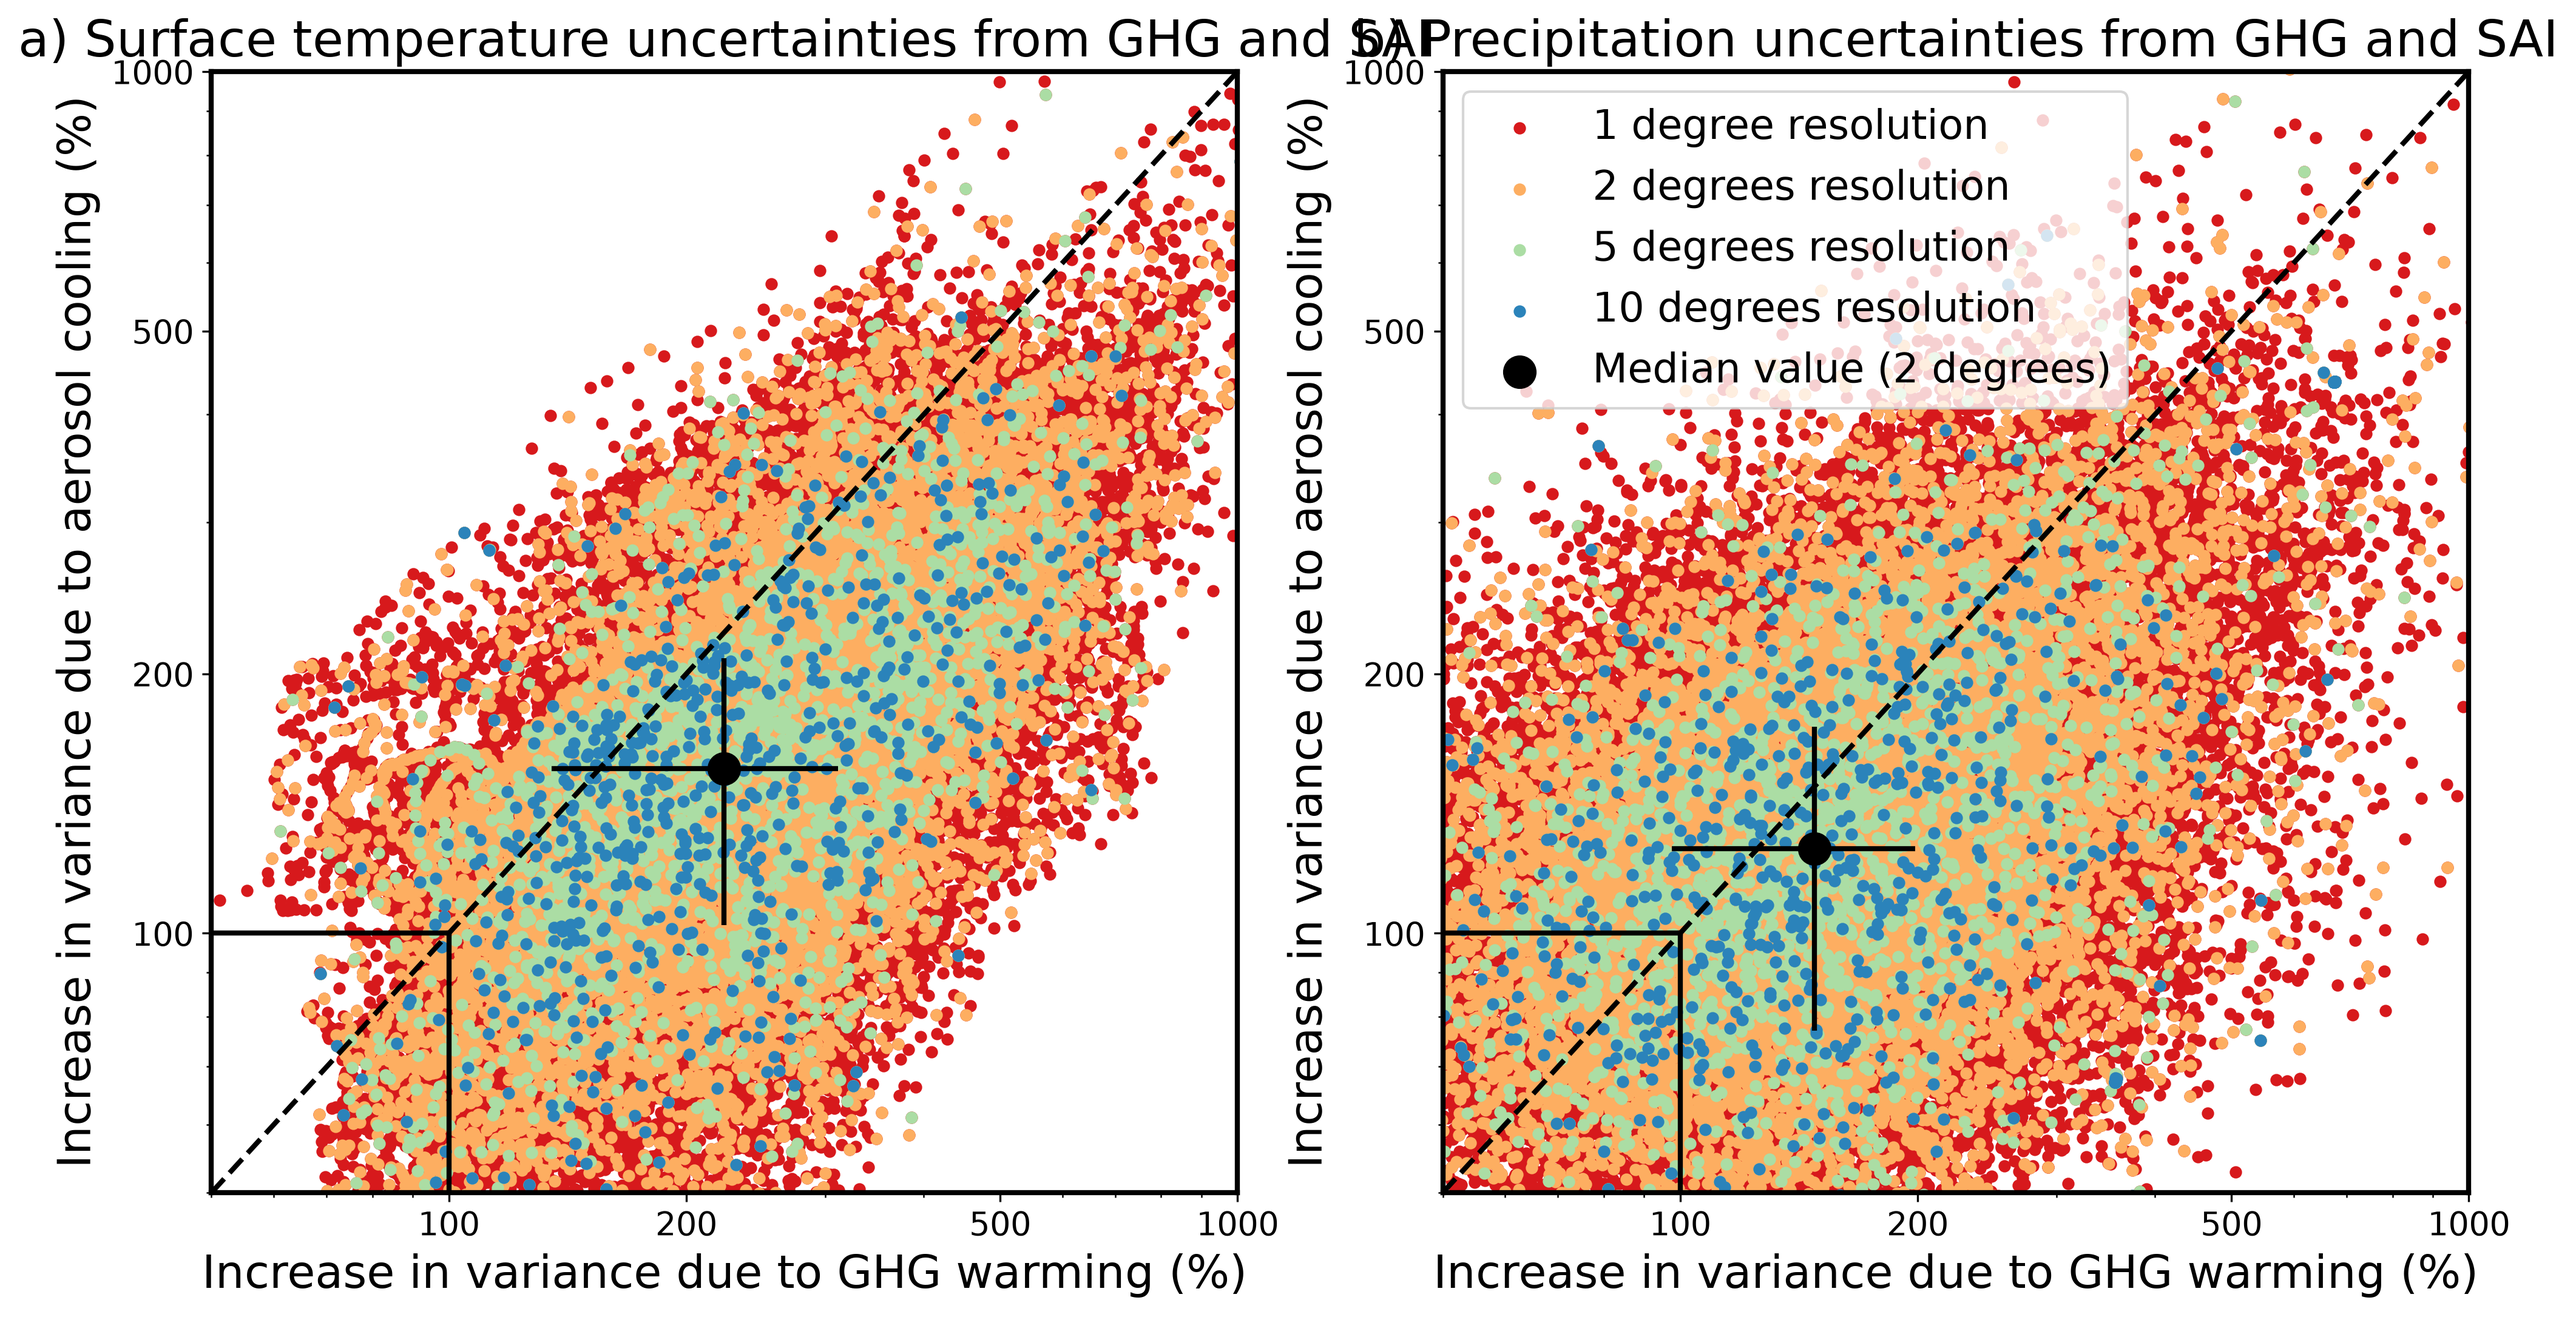
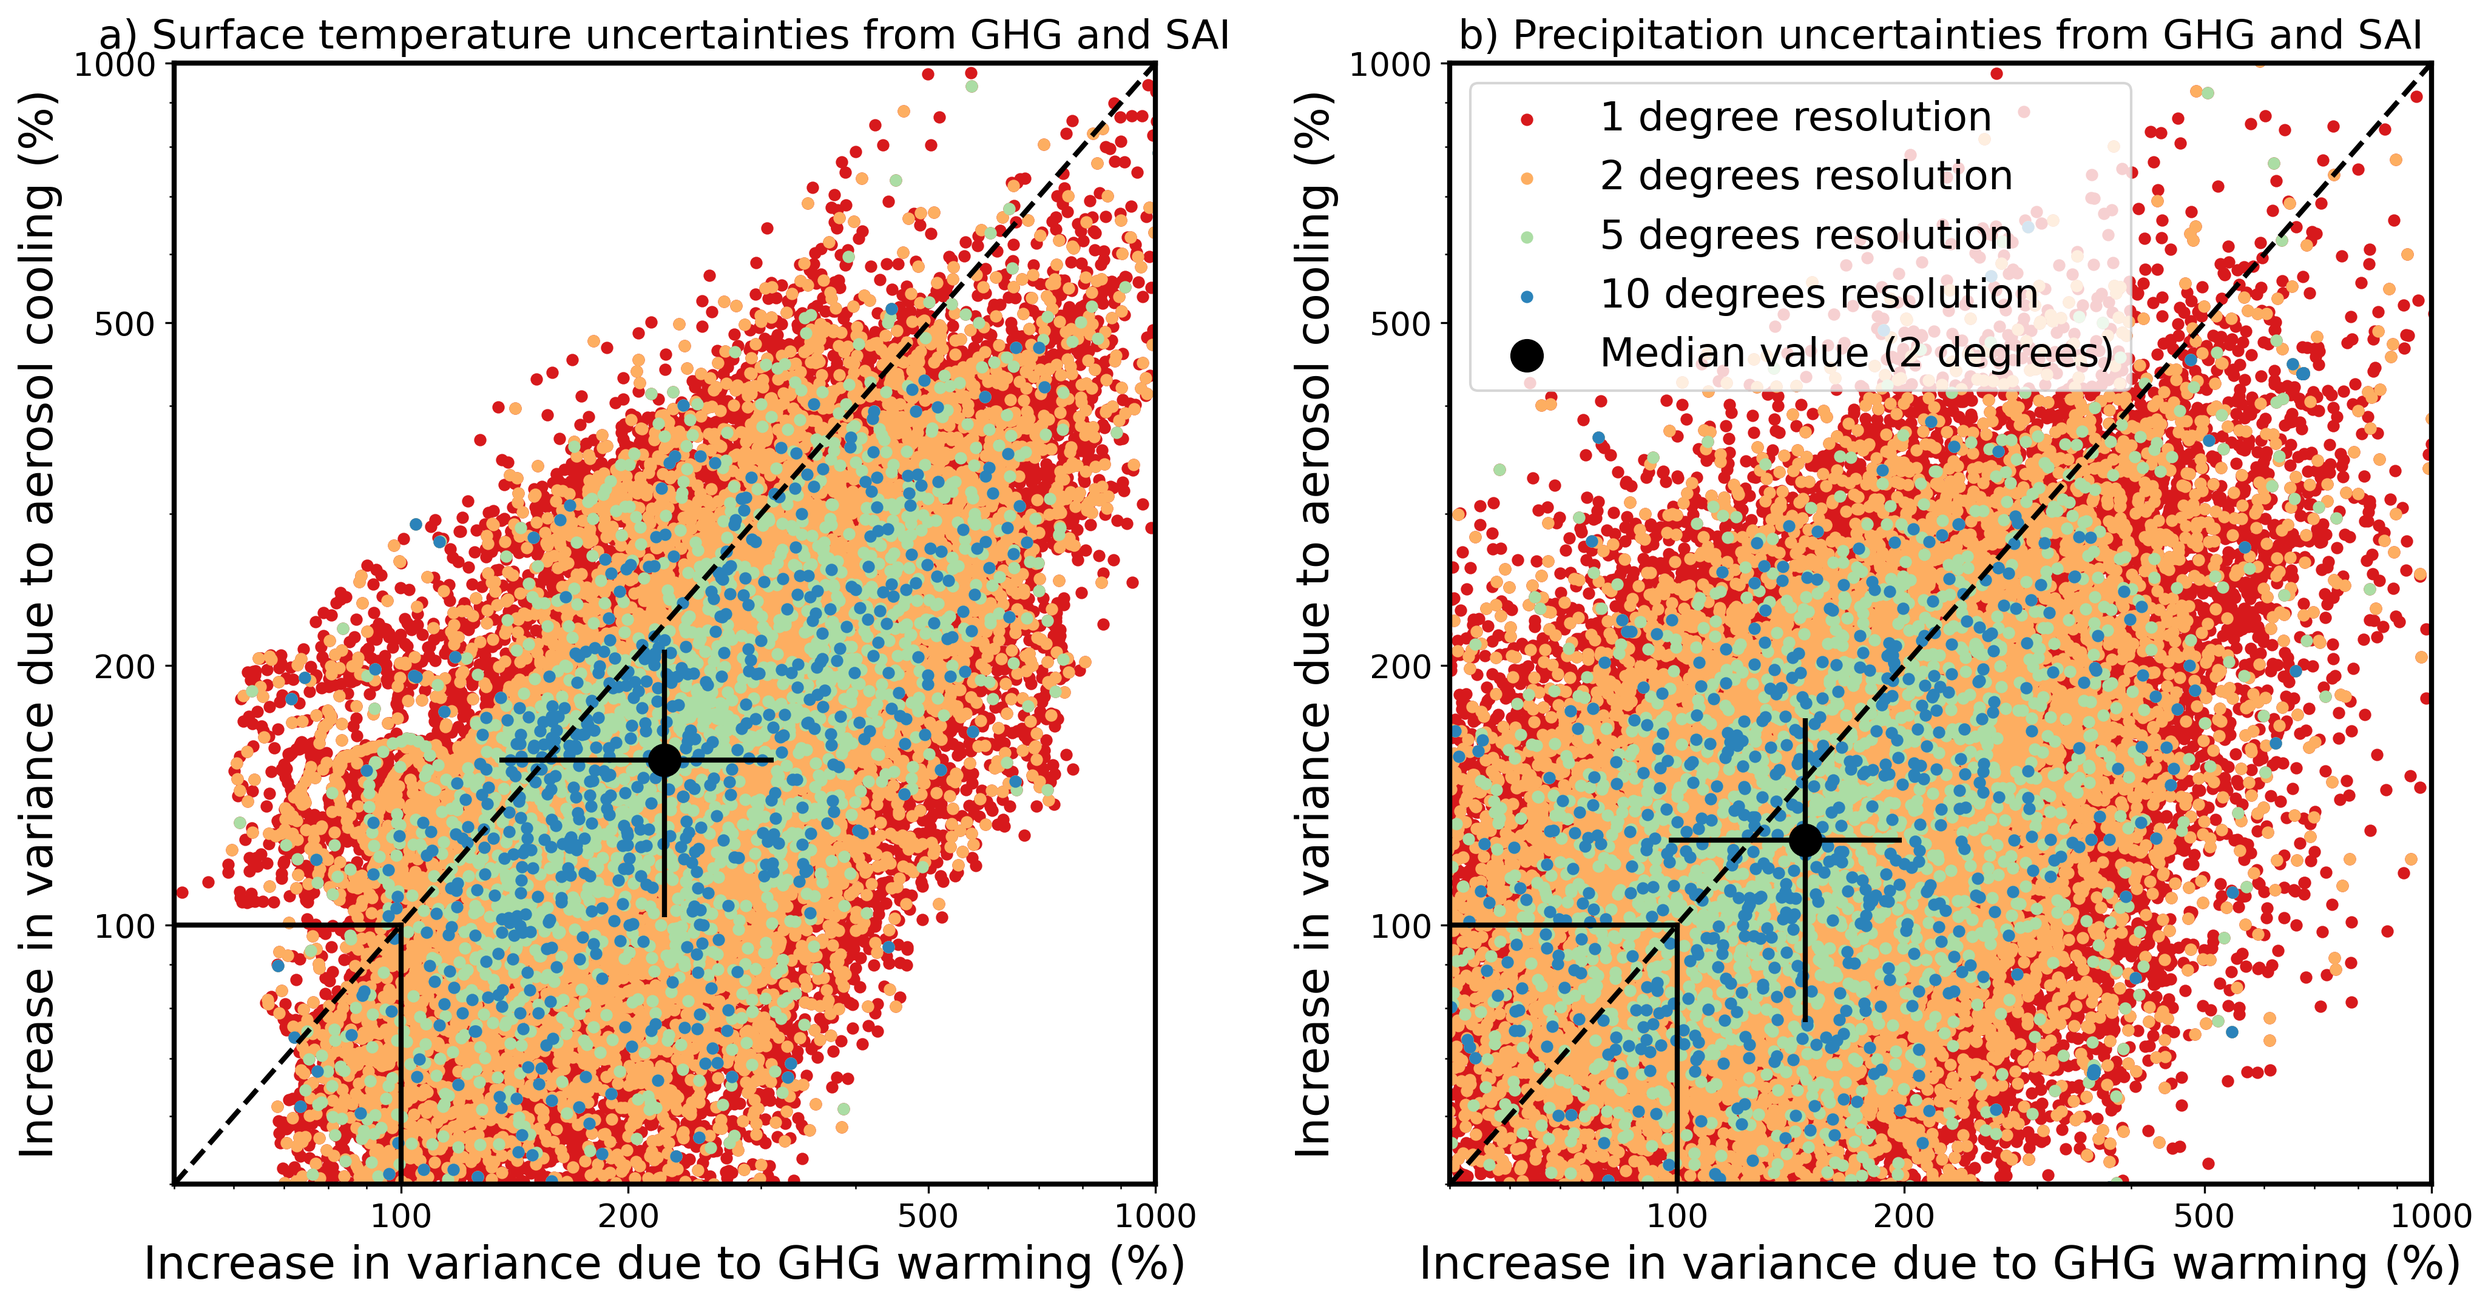
Fix overlapping text in spatial-uncertainty and regions-map figures
- plot_all_spatial_aggregation_2: smaller panel titles (20 -> 16pt) and
  wider gap between panels so the a)/b) titles no longer collide;
  regenerate GeoMIP_spatial_uncertainties_2.png.
- plot_HS_regions_map_2: stack the partition legend directly below the
  time-series legend (measured at draw time) in a taller legend area;
  re-space the global block so "Global partition" clears the panel above,
  and make that title bold. The TREFHT/PRECT PNGs are not regenerated
  (needs the CESM2 MA-GAUSS raw data).

diff --git a/python/src/plot_HS_regions_map_2.py b/python/src/plot_HS_regions_map_2.py
@@ -244,24 +244,29 @@ def dashboard(res, regions, var_label, normalize, default_ylim, glob_ylim, outna
 
     # global block (middle-left)
     yg, ybg = res["global"]
-    axgl = fig.add_axes([0.035, 0.520, BW, HL]); axgp = fig.add_axes([0.035, 0.375, BW, HP])
+    # wider gap than the region blocks: the partition panel has its own title
+    axgl = fig.add_axes([0.035, 0.519, BW, HL]); axgp = fig.add_axes([0.035, 0.360, BW, HP])
     line_panel(axgl, yg, ybg, normalize, glob_ylim)
     axgl.set_title("Global mean", fontsize=18, fontweight="bold")
     part_panel(axgp, yg)
-    axgp.set_title("Global partition", fontsize=16)
+    axgp.set_title("Global partition", fontsize=16, fontweight="bold")
 
-    # combined legend (middle-right)
-    axleg = fig.add_axes([0.775, 0.39, 0.21, 0.24]); axleg.axis("off")
+    # combined legend (middle-right): spans the free gap between the top and
+    # bottom region rows; the partition legend is stacked directly below the
+    # time-series legend so the two can never overlap
+    axleg = fig.add_axes([0.775, 0.335, 0.21, 0.315]); axleg.axis("off")
     hs = [axleg.plot([], [], color=fc[ix], lw=3)[0] for ix in range(7)]
     hs.append(axleg.plot([], [], "k", lw=3)[0])
-    leg1 = axleg.legend(hs, exp2 + ["SSP2-4.5"], loc="upper center", fontsize=14,
-                        frameon=True, title="Time series (line panels)", title_fontsize=14)
+    leg1 = axleg.legend(hs, exp2 + ["SSP2-4.5"], loc="upper center",
+                        bbox_to_anchor=(0.5, 1.0), fontsize=13, frameon=True,
+                        title="Time series (line panels)", title_fontsize=13)
     axleg.add_artist(leg1)
+    bb = leg1.get_window_extent(fig.canvas.get_renderer()).transformed(axleg.transAxes.inverted())
     parts = [mpatches.Patch(color=AREA_C[0], label="Scenario (target)"),
              mpatches.Patch(color=AREA_C[1], label="Strategy"),
              mpatches.Patch(color=AREA_C[2], label="Internal variability")]
-    axleg.legend(handles=parts, loc="lower center", fontsize=14, frameon=True,
-                 title="Uncertainty partition", title_fontsize=14)
+    axleg.legend(handles=parts, loc="upper center", bbox_to_anchor=(0.5, bb.y0 - 0.03),
+                 fontsize=13, frameon=True, title="Uncertainty partition", title_fontsize=13)
 
     # region blocks + leader lines
     for r in regions:

diff --git a/python/src/plot_all_spatial_aggregation_2.py b/python/src/plot_all_spatial_aggregation_2.py
@@ -49,7 +49,7 @@ def load_res(deg, var):
 import matplotlib as _mpl
 _mpl.rcParams.update({
     'font.size': 18,
-    'axes.titlesize': 20,
+    'axes.titlesize': 16,
     'axes.labelsize': 18,
     'xtick.labelsize': 13,
     'ytick.labelsize': 13,
@@ -59,6 +59,7 @@ _mpl.rcParams.update({
 
 fc = brewermap(4, "Spectral")
 fig, (ax1, ax2) = plt.subplots(1, 2, figsize=(16, 8))
+fig.subplots_adjust(wspace=0.3)   # room between panels so titles/labels don't collide
 
 # NOTE: figure creation and ALL plotting must stay in ONE cell. With the inline
 # backend, a figure is displayed (and closed) at the end of the cell that
